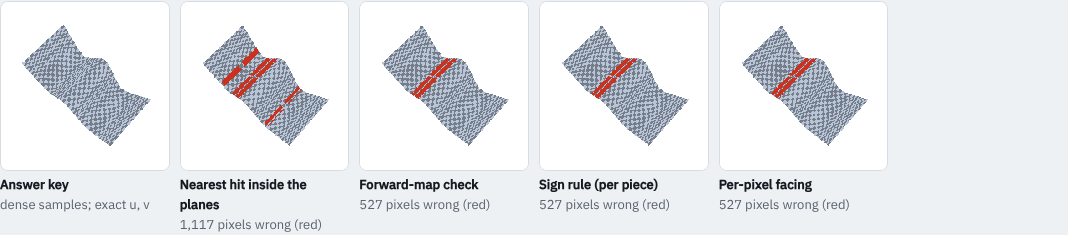
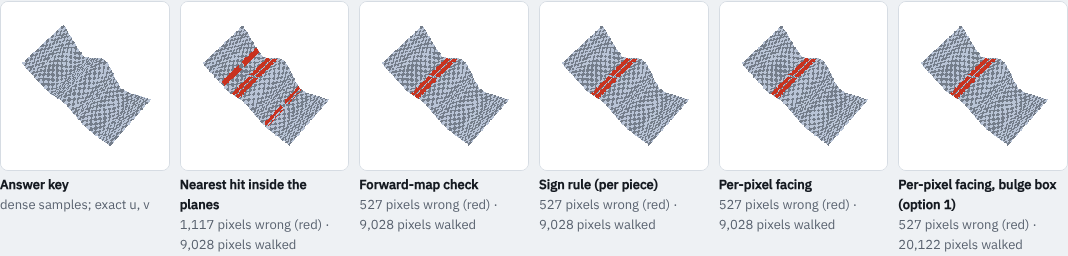
R&D log 16d and pictures for the bulge box (option 1)
Claude-Session: https://claude.ai/code/session_01JACsrEAfGJwPGrGbmx3fgo

diff --git a/index.html b/index.html
@@ -142,7 +142,7 @@ code{font-family:var(--f-mono);font-size:.92em}
   <li><span class="num">16</span><div class="body">
     <h2>Operation stress test <span class="tag current">current</span></h2>
     <p class="q">Every solving and detection method on real pieces: measured time, counted operations and Skylake cycles, and accuracy in float64 and float32 against an independent answer key.</p>
-    <ul class="find"><li>Ray × ellipsoid + side planes: exact, 23 model cycles. Edge-based u, v: slide 38% of an edge on average. P(u, v): 111 cycles.</li><li>Step 11's forward-map check fails in float32 (rejects every hard-cube pixel); the sign rule fails on pieces that turn away partway; nearest-in-planes takes the far side on the wave.</li><li>Packed layout (one flat array, stepped inside spans, 10-byte output): 4–6× faster with identical results; ray + sign rule 16 model cycles per pixel.</li><li>Per-pixel facing picks the right hit everywhere except 430 no-hit pixels on the mixed cube (14 packed cycles). Pictures: what remains wrong is coverage from the edge spans (outline bulges, seams), the same for every rule.</li></ul>
+    <ul class="find"><li>Ray × ellipsoid + side planes: exact, 23 model cycles. Edge-based u, v: slide 38% of an edge on average. P(u, v): 111 cycles.</li><li>Step 11's forward-map check fails in float32 (rejects every hard-cube pixel); the sign rule fails on pieces that turn away partway; nearest-in-planes takes the far side on the wave.</li><li>Packed layout (one flat array, stepped inside spans, 10-byte output): 4–6× faster with identical results; ray + sign rule 16 model cycles per pixel.</li><li>Per-pixel facing picks the right hit everywhere except 430 no-hit pixels on the mixed cube (14 packed cycles). Pictures: what remains wrong is coverage from the edge spans (outline bulges, seams), the same for every rule.</li><li>Option 1, bulge box (closed form from the quadric's outline points): misses no pixel of any piece; about 12 cycles per pixel walked. Left: back pieces tie with front ones on a shared sphere; a seam band on the wave.</li></ul>
     <div class="links"><a class="btn" href="examples/11-op-stress-test.html">Open the stress test</a></div></div></li>
 </ol>
 

diff --git a/docs/rnd-log.md b/docs/rnd-log.md
@@ -617,6 +617,26 @@ Which hit counts (wrong / no hit, float64; float32 gives the same numbers for th
 - **That remainder comes from coverage, not the hit choice.** The pixels a piece walks come from its edges' row crossings. Where a piece bulges past its edges (folds at the outline, seams), those pixels are never walked.
 - **Detection note:** per-pixel facing reports pieces hidden behind others as not covering (16,478 "wrongly out" on the smooth cube). Only visible coverage matters for the depth map.
 
+**16d. Option 1: bulge box.**
+- Inside a piece, its picture can only reach furthest left, right, up or down at an outline point, where the tangent plane passes through the camera.
+- The planes through the camera and a pixel column touch the quadric where πᵀ·C·π = 0. C is the adjugate of the quadric's 4 × 4 matrix (fixed per piece), and the condition is a quadratic in the screen x. The touch point is C·π.
+- Rows work the same way. The box is the control-point box, widened by every touch point inside the piece's side planes.
+- Every pixel in the box is walked with ray + side planes + per-pixel facing.
+
+| Case | Box misses (control points → bulge box) | Red pixels (spans → bulge box) | Pixels walked |
+|---|---|---|---|
+| Smooth cube, oblique | 365 → 0 | 3,379 → 2,025 | ≈ 1.8× |
+| Smooth cube, glancing | 435 → 0 | 4,499 → 1,895 | ≈ 2.2× |
+| Smooth cube, straight on | 0 → 0 | 3,738 → 2,050 | ≈ 2.2× |
+| Hard cube, straight on | 0 → 0 | 0 → 0 | ≈ 1.1× |
+| Mixed cube, oblique | 129 → 0 | 2,400 → 1,080 | ≈ 1.9× |
+| Wave, oblique | 0 → 0 | 527 → 527 | ≈ 2.2× |
+
+- Packed cost: about 12 model cycles per pixel walked (a miss exits early).
+- Whole frame at 1000²: 20 ns per pixel measured, against 24 with spans. There are no row crossings to solve.
+- What's left on the smooth cube is a band on the top face. Every piece's quadric is the same sphere, and every piece's side planes pass through its centre. So for a back piece, the facing hit is the antipodal point on the front, inside its own planes, at the same depth as the true front piece. The first piece written keeps the pixel (the bottom face over the top face).
+- The wave's band at the seam is the same for every rule and every walk; not yet explained.
+
 ## Prior art
 
 Collected from memory at first. Step 7 checked the shared-edge part against abstracts and citing papers.
